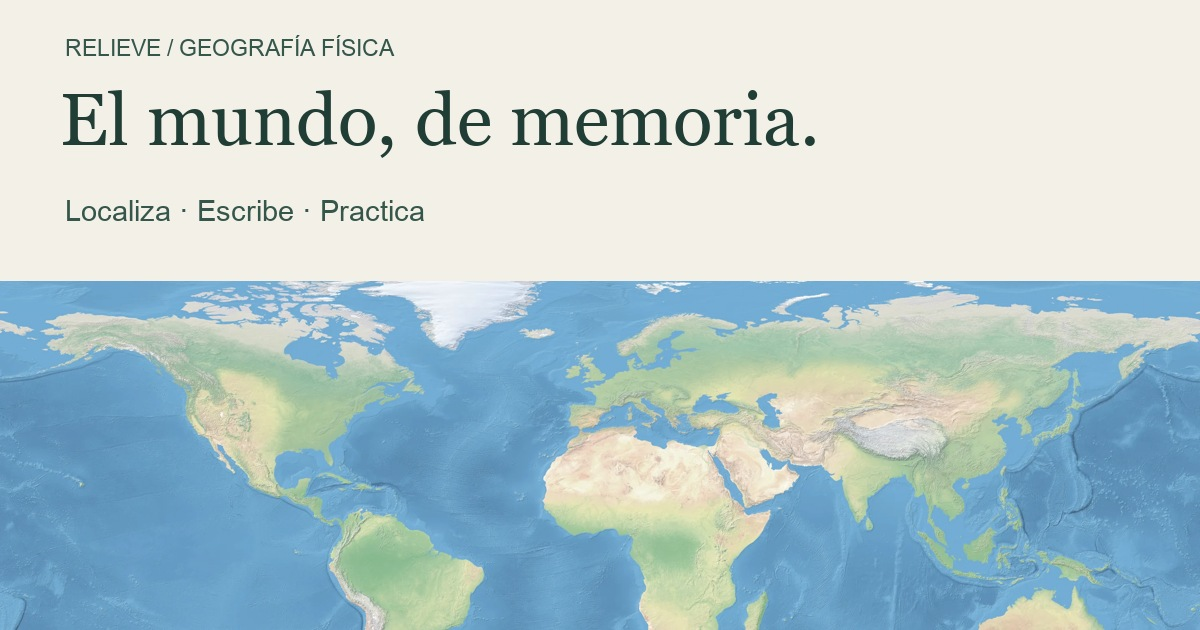
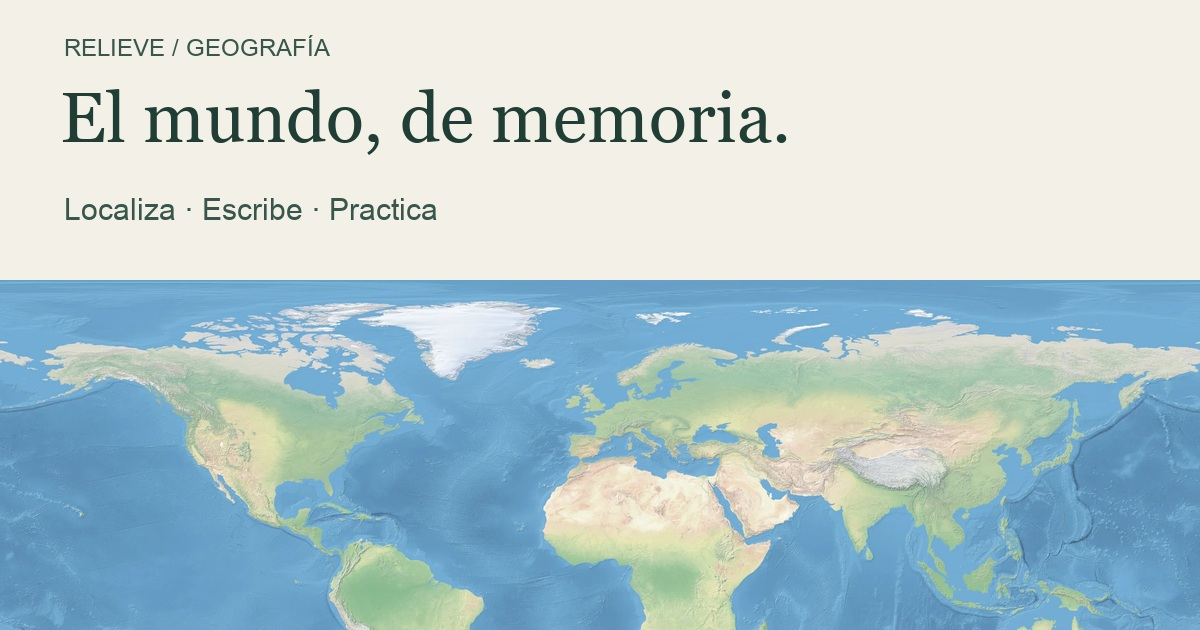
Audit interface copy, instructions, metadata and social card

diff --git a/app.js b/app.js
@@ -4,7 +4,7 @@ const $=s=>document.querySelector(s), $$=s=>[...document.querySelectorAll(s)];
 const esc=s=>String(s).replace(/[&<>"']/g,c=>({'&':'&amp;','<':'&lt;','>':'&gt;','"':'&quot;',"'":'&#39;'}[c]));
 let saved={};try{saved=JSON.parse(localStorage.getItem('relieve-progress-v1')||'{}');if(!saved||typeof saved!=='object'||Array.isArray(saved))saved={};}catch{}
 let scope='world',mode='write',base='natural',session=null,selected=null,view=[0,0,1200,500],dims=[1200,500],cursor=null,draggingPan=null,anchors=[];
-const descriptions={write:['¿Cuántos recuerdas?','Identifica el punto señalado. Tú escribes el nombre; nosotros ponemos el mapa.'],point:['Encuentra su lugar.','Lee el nombre y señala su ubicación. Amplía el mapa cuando necesites precisión.'],drag:['Todo por colocar.','Cada ancla señala un lugar. Arrastra las etiquetas al ancla correspondiente, o selecciona una y haz clic.'],challenge:['Un reto para recordar.','Escribe el nombre de cada punto señalado. Verás la corrección al finalizar, sin pistas ni avisos intermedios.'],review:['Una segunda vuelta.','Practica escribiendo los lugares que fallaste. Desaparecerán de este repaso cuando los aciertes sin ayuda.'],study:['Mira con calma.','Selecciona un nombre para ver su punto de referencia. Explora el mapa sin tiempo ni puntuación.']};
+const descriptions={write:['¿Cuántos recuerdas?','Identifica el punto señalado. La pregunta indica qué tipo de relieve buscamos.'],point:['Encuentra su lugar.','Lee el nombre y señala su ubicación. Amplía el mapa cuando necesites precisión.'],drag:['Todo por colocar.','Cada ancla señala un lugar. Arrastra las etiquetas al ancla correspondiente, o selecciona una y haz clic.'],challenge:['Un reto para recordar.','Escribe el nombre de cada punto señalado. Verás la corrección al finalizar. Si una respuesta es genérica o ambigua, te pediremos precisarla.'],review:['Una segunda vuelta.','Practica escribiendo los lugares que fallaste. Desaparecerán de este repaso cuando los aciertes sin ayuda.'],study:['Mira con calma.','Selecciona un nombre para ver su punto de referencia. Explora el mapa sin tiempo ni puntuación.']};
 function pool(){return ITEMS.filter(i=>i.scope===scope);}
 function filtered(){return pool().filter(i=>($('#group').value==='all'||i.group===$('#group').value)&&($('#category').value==='all'||i.category===$('#category').value)&&(mode!=='review'||saved[i.id]?.last===false));}
 function updateStats(){const n=ITEMS.filter(i=>saved[i.id]?.last===true).length;$('#mastered').innerHTML=`${n} <small>/ 74</small>`;$('#overall-bar').style.width=`${n/74*100}%`;}
@@ -13,7 +13,7 @@ function updateFilters(){
  $('#group').innerHTML=scope==='world'?'<option value="all">Todo el mundo</option>'+['Asia','América','África','Europa','Oceanía'].map(v=>`<option>${v}</option>`).join(''):'<option value="all">Toda la Península</option>';
  $('#category').innerHTML='<option value="all">Todos los tipos</option>'+[...new Set(pool().map(i=>i.category))].map(v=>`<option>${v}</option>`).join('');
 }
-function updateSetup(){const n=filtered().length;$('#available').textContent=`${n} ${n===1?'lugar disponible':'lugares disponibles'}${mode==='review'&&n===0?' · Todavía no tienes fallos en esta selección.':''}`;$('#start').disabled=n===0;$('#count').disabled=['drag','study'].includes(mode);$('#session-title').textContent=descriptions[mode][0];$('#mode-description').textContent=descriptions[mode][1];$('#start').innerHTML=(mode==='study'?'Explorar mapa':'Empezar práctica')+' <span>↗</span>';$('#setup-note').textContent=mode==='drag'?'Se incluyen todos los lugares de la selección. Las anclas aparecen sin nombres.':mode==='challenge'?'Cada respuesta se guarda al avanzar. El tiempo es informativo.':mode==='study'?'Consulta los puntos de referencia y aprende antes de practicar.':'Sin prisas. Las tildes y las pequeñas erratas no te frenan.';}
+function updateSetup(){const n=filtered().length;$('#available').textContent=`${n} ${n===1?'lugar disponible':'lugares disponibles'}${mode==='review'&&n===0?' · No tienes lugares pendientes de repaso en esta selección.':''}`;$('#start').disabled=n===0;$('#count').disabled=['drag','study'].includes(mode);$('#session-title').textContent=descriptions[mode][0];$('#mode-description').textContent=descriptions[mode][1];$('#start').innerHTML=(mode==='study'?'Explorar mapa':'Empezar práctica')+' <span>↗</span>';$('#setup-note').textContent=mode==='drag'?'Se incluyen todos los lugares de la selección. Pasa por un ancla para ver su tipo de relieve.':mode==='challenge'?'Cada respuesta se guarda al avanzar. El tiempo es informativo.':mode==='study'?'Consulta los puntos de referencia y aprende antes de practicar.':'Sin prisas. Las tildes y las pequeñas erratas no te frenan.';}
 function setMap(){dims=scope==='world'?(base==='original'?[1200,855]:[1200,500]):(base==='original'?[1000,712.4]:[1000,885]);$('#map-image').setAttribute('href',`assets/${base==='original'?'original':'natural'}-${scope}.webp`);$('#map-image').setAttribute('width',dims[0]);$('#map-image').setAttribute('height',dims[1]);$('#map-title').textContent=scope==='world'?'Relieve mundial':'Península Ibérica';$('#map-kicker').textContent=scope==='world'?'PLANISFERIO FÍSICO':'RELIEVE PENINSULAR';$('#map-tag').textContent=base==='original'?'MAPA ORIGINAL':'NATURAL EARTH';$('#map-credit').textContent=base==='original'?'Mapa original de la ficha':'Natural Earth · dominio público';$('#map').setAttribute('aria-label',`Mapa físico ${scope==='world'?'del mundo':'de la Península Ibérica'}. ${descriptions[mode][1]}`);resetView();renderMarks();}
 function applyView(){ $('#map').setAttribute('viewBox',view.join(' ')); renderMarks(); }
 function resetView(){view=[0,0,...dims];applyView();}
@@ -50,7 +50,7 @@ function renderGame(){if(!session)return;const oldScroll=$('.chips')?.scrollTop|
  if(['drag','study'].includes(mode)){
  html+=`<h2>${mode==='drag'?'Cada nombre, en su lugar.':'Conoce el terreno.'}</h2><p class="muted">${mode==='drag'?'Arrastra cada etiqueta a un ancla numerada. También puedes seleccionar la etiqueta y hacer clic en el ancla.':'Elige un lugar para mostrar un punto de referencia.'}</p><div class="chips">${session.items.map((i,n)=>`<button class="chip ${selected?.id===i.id?'selected':''} ${session.placed.has(i.id)?'solved':''}" data-item="${i.id}" draggable="${mode==='drag'&&!session.placed.has(i.id)}" ${session.placed.has(i.id)?'disabled':''}>${session.placed.has(i.id)?'✓ '+(session.anchorItems.findIndex(a=>a.id===i.id)+1)+' · ':''}${esc(i.name)}</button>`).join('')}</div><div id="feedback" role="status" aria-live="polite"></div>`;
  if(mode==='study')html+=`<div class="study-detail">${esc(selected?.name||'')}<br><small>${esc(selected?.group||'')} · ${esc(selected?.category||'')}</small></div><button class="secondary" id="focus-place">Acercar al lugar</button>`;
- else html+='<button class="secondary" id="reveal">Mostrar etiqueta seleccionada</button>';
+ else html+='<button class="secondary" id="reveal">Ver ancla de la etiqueta</button>';
  html+='<button class="text-button" id="finish">Terminar sesión</button>';
  }else{const i=current();html+=`<p class="question-context">${esc(i.group)} · ${esc(i.category)}</p><h2 class="question-title">${mode==='point'?esc(i.name):`¿Qué ${featureType(i)} es?`}</h2><p class="muted">${mode==='point'?'Haz clic en su ubicación. Puedes ampliar el mapa.':'Identifica el punto marcado en naranja.'}</p>`;
  if(mode!=='point')html+='<form id="answer-form"><label for="answer">Tu respuesta</label><input id="answer" autocomplete="off" autocapitalize="off" spellcheck="false" placeholder="Escribe el nombre…" required maxlength="120"><button class="primary" type="submit">'+(mode==='challenge'?'Guardar y continuar':'Comprobar')+' <span>↵</span></button></form>';
@@ -111,7 +111,7 @@ function focusPlace(){const i=mode==='study'?selected:current();if(!i)return;con
 function feedback(html,type=''){const el=$('#feedback');if(el){el.className='feedback '+type;el.innerHTML=html;}}
 function submitText(){if(!session||session.answered)return;const value=$('#answer').value.trim();if(!value)return;const result=checkAnswer(value,current(),pool());if(['generic','ambiguous'].includes(result.kind)){feedback(result.kind==='generic'?'Eso indica el tipo de relieve. Añade el nombre que identifica el lugar.':'Ese nombre es ambiguo. Añade una palabra más para identificar el lugar.','warning');return;}answer(result,value);}
 function answer(result,value){if(!session||session.answered)return;const item=current();session.answers.push({id:item.id,name:item.name,...result,value});session.answered=true;persist(item,result.ok);if(mode==='challenge'){next();return;}
- let message=result.ok?(['exact','location'].includes(result.kind)?'Bien situado en tu memoria.':result.kind==='typo'?'Correcto, con una pequeña errata.':'Correcto. Has usado un nombre abreviado o alternativo.'):(result.kind==='ambiguous'?'Ese nombre puede referirse a más de un lugar.':result.kind==='skip'?'Lo dejamos para repasar.':result.kind==='reveal'?'Solución consultada. Se guardará para repasar.':'Esta vez no. Lo guardamos para repasar.');
+ let message=result.ok?(['exact','location'].includes(result.kind)?'Correcto.':result.kind==='typo'?'Correcto, con una pequeña errata.':'Correcto. Has usado un nombre abreviado o alternativo.'):(result.kind==='ambiguous'?'Ese nombre puede referirse a más de un lugar.':result.kind==='skip'?'Lo dejamos para repasar.':result.kind==='reveal'?'Solución consultada. Se guardará para repasar.':'Esta vez no. Lo guardamos para repasar.');
  feedback(`${message}<br><strong>${esc(item.name)}</strong>`,result.ok?(['exact','location'].includes(result.kind)?'':'warning'):'error');
  $('#answer-form')?.querySelectorAll('input,button').forEach(e=>e.disabled=true);$('#reveal')?.setAttribute('disabled','');$('#skip')?.setAttribute('disabled','');$('#next').hidden=false;$('#next').textContent=session.index===session.items.length-1?'Ver resultados →':'Siguiente lugar →';renderMarks();$('#next').focus({preventScroll:true});}
 function reveal(){if(mode==='drag'){if(!selected){feedback('Selecciona primero una etiqueta.','warning');return;}session.failed.add(selected.id);session.revealed=true;feedback(`El ancla resaltada corresponde a <strong>${esc(selected.name)}</strong>. Colócala para continuar; quedará en tu repaso.`,'warning');renderMarks();}else answer({ok:false,kind:'reveal'},'Solución consultada');}
@@ -128,13 +128,13 @@ function place(p,confirmedId=null){if(!session||mode==='study')return;
  }
  $('#anchor-choice')?.remove();
  const anchor=confirmedId?anchors.find(a=>a.item.id===confirmedId&&!session.placed.has(a.item.id)):nearestAnchor(p);if(anchor?.item.id===selected.id){const ok=!session.failed.has(selected.id);session.placed.add(selected.id);session.answers.push({id:selected.id,name:selected.name,ok,kind:'location',value:ok?'Ubicación correcta':'Colocado tras un error o una pista'});persist(selected,ok);selected=null;session.revealed=false;renderGame();renderMarks();feedback(ok?'Bien colocado. Continúa con otra etiqueta.':'Colocado. Lo volveremos a practicar.');if(session.placed.size===session.items.length)finish();}
- else{if(anchor)session.failed.add(selected.id);feedback(`${anchor?'Esa ancla no corresponde.':'Suelta la etiqueta sobre un ancla.'} Busca <strong>${esc(selected.name)}</strong>.`,'error');}
+ else{if(anchor)session.failed.add(selected.id);feedback(`${anchor?'Esa ancla no corresponde.':'Elige un ancla del mapa.'} Busca <strong>${esc(selected.name)}</strong>.`,'error');}
 }
 function finish(){if(!session)return;if(mode==='study'){back();return;}
  // Preserve mistakes from unfinished drag attempts, without counting untouched labels.
  if(mode==='drag')for(const id of session.failed)if(!session.placed.has(id)){const i=session.items.find(x=>x.id===id);session.answers.push({id,name:i.name,ok:false,kind:'location',value:'Sin completar tras un error o una pista'});persist(i,false);}
  const answers=session.answers;const n=answers.filter(a=>a.ok).length;const secs=Math.round((Date.now()-session.started)/1000);$('#game').hidden=true;$('#results').hidden=false;
- $('#results').innerHTML=`<p class="eyebrow">SESIÓN TERMINADA</p><h2>${n===answers.length&&n>0?'Bien aprendido.':'Cada vuelta cuenta.'}</h2><div class="result-score">${n}<small> / ${answers.length}</small></div><p class="muted">Aciertos sin ayuda · ${Math.floor(secs/60)} min ${secs%60} s<br>${session.items.length-answers.length?`${session.items.length-answers.length} lugares sin intentar.`:'Has completado toda la sesión.'}</p><ul class="result-list">${answers.map(a=>`<li class="${a.ok?'':'wrong'}">${a.ok?'✓':'↺'} ${esc(a.name)}<small>${esc(a.value)}${a.ok&&['short','typo'].includes(a.kind)?' · Válida con aviso':''}</small></li>`).join('')}</ul><button class="primary" id="again">Otra ronda <span>↗</span></button><button class="secondary" id="review-now">Repasar mis fallos</button><button class="text-button" id="configure">Cambiar configuración</button>`;
+ $('#results').innerHTML=`<p class="eyebrow">SESIÓN TERMINADA</p><h2>${n===answers.length&&n>0?'Bien aprendido.':'Cada vuelta cuenta.'}</h2><div class="result-score">${n}<small> / ${answers.length}</small></div><p class="muted">Aciertos · ${Math.floor(secs/60)} min ${secs%60} s<br>${session.items.length-answers.length?`${session.items.length-answers.length} lugares sin intentar.`:'Has completado toda la sesión.'}</p><ul class="result-list">${answers.map(a=>`<li class="${a.ok?'':'wrong'}">${a.ok?'✓':'↺'} ${esc(a.name)}<small>${esc(a.value)}${a.ok&&['short','typo'].includes(a.kind)?(a.kind==='short'?' · Nombre abreviado o alternativo':' · Pequeña errata aceptada'):''}</small></li>`).join('')}</ul><button class="primary" id="again">Otra ronda <span>↗</span></button><button class="secondary" id="review-now">Repasar mis fallos</button><button class="text-button" id="configure">Cambiar configuración</button>`;
  $('#again').onclick=()=>{back();start();};$('#configure').onclick=back;$('#review-now').onclick=()=>{back();setMode('review');};lock(false);session=null;selected=null;$('#marks').innerHTML='';$('#cursor').innerHTML='';resetView();}
 function back(){session=null;selected=null;$('#setup').hidden=false;$('#game').hidden=true;$('#results').hidden=true;lock(false);updateSetup();renderMarks();$('#cursor').innerHTML='';resetView();}
 function setMode(m){mode=m;$$('[data-mode]').forEach(b=>{b.classList.toggle('active',b.dataset.mode===m);b.setAttribute('aria-pressed',b.dataset.mode===m);});back();setMap();}

diff --git a/index.html b/index.html
@@ -1,5 +1,5 @@
 <!doctype html>
-<html lang="es"><head><meta charset="utf-8"><meta name="viewport" content="width=device-width,initial-scale=1"><title>Relieve · Practica geografía física</title><meta name="description" content="Aprende a localizar 74 formas del relieve mundial y de la Península Ibérica. Mapas mudos, escritura, arrastrar etiquetas y retos de práctica."><meta name="theme-color" content="#254d40"><link rel="canonical" href="https://jgleal.github.io/relieve/"><meta property="og:type" content="website"><meta property="og:locale" content="es_ES"><meta property="og:title" content="Relieve · El mundo, de memoria."><meta property="og:description" content="74 lugares. Dos mapas. Una nueva forma de practicar geografía física."><meta property="og:url" content="https://jgleal.github.io/relieve/"><meta property="og:image" content="https://jgleal.github.io/relieve/assets/social.jpg"><meta property="og:image:width" content="1200"><meta property="og:image:height" content="630"><meta name="twitter:card" content="summary_large_image"><meta name="twitter:title" content="Relieve · Practica geografía física"><meta name="twitter:description" content="Mapas mudos, retos de escritura y retos de práctica."><meta name="twitter:image" content="https://jgleal.github.io/relieve/assets/social.jpg"><link rel="icon" href="assets/favicon.svg" type="image/svg+xml"><link rel="stylesheet" href="style.css"><script type="module" src="app.js"></script></head>
+<html lang="es"><head><meta charset="utf-8"><meta name="viewport" content="width=device-width,initial-scale=1"><title>Relieve · Practica geografía</title><meta name="description" content="Aprende a localizar 74 formas del relieve mundial y de la Península Ibérica. Mapas mudos, escritura, arrastrar etiquetas y retos de práctica."><meta name="theme-color" content="#254d40"><link rel="canonical" href="https://jgleal.github.io/relieve/"><meta property="og:type" content="website"><meta property="og:locale" content="es_ES"><meta property="og:title" content="Relieve · El mundo, de memoria."><meta property="og:description" content="74 lugares del mundo y de la Península Ibérica. Escribe sus nombres y sitúalos en el mapa."><meta property="og:url" content="https://jgleal.github.io/relieve/"><meta property="og:image" content="https://jgleal.github.io/relieve/assets/social.jpg"><meta property="og:image:width" content="1200"><meta property="og:image:height" content="630"><meta name="twitter:card" content="summary_large_image"><meta name="twitter:title" content="Relieve · Practica geografía"><meta name="twitter:description" content="Escribe nombres, coloca etiquetas y practica con mapas originales o en color."><meta name="twitter:image" content="https://jgleal.github.io/relieve/assets/social.jpg"><link rel="icon" href="assets/favicon.svg" type="image/svg+xml"><link rel="stylesheet" href="style.css"><script type="module" src="app.js"></script></head>
 <body><header class="topbar"><a class="brand" href="./" aria-label="Relieve, inicio"><svg viewBox="0 0 40 36" aria-hidden="true"><path d="M2 29 14 7l8 13 5-8 11 17M8 29l8-14 9 14M15 29l5-8"/></svg>Relieve<span>GEOGRAFÍA</span></a><div class="header-right"><span class="local-badge"><i></i> Tu progreso se guarda aquí</span><button class="text-button" id="sources">Sobre el proyecto ↗</button></div></header>
 <main><section class="intro"><div><p class="eyebrow">OBSERVA. RECUERDA. SITÚA.</p><h1>El mundo, <em>de memoria.</em></h1><p class="subtitle">De los Andes a la sierra de Gredos. Practica el relieve a tu manera.</p></div><div class="overview"><strong id="mastered">0 <small>/ 74</small></strong><span>lugares acertados</span><div class="progress-track"><div id="overall-bar"></div></div></div></section>
 <section aria-label="Configurar práctica" id="configuration"><div class="scope-row"><div class="segmented" role="group" aria-label="Ámbito geográfico"><button data-scope="world" class="active">01 <span>Relieve mundial</span><small>52 lugares</small></button><button data-scope="iberia">02 <span>Península Ibérica</span><small>22 lugares</small></button></div><div class="map-selector"><label for="base">BASE CARTOGRÁFICA</label><select id="base"><option value="natural">Relieve en color</option><option value="original">Mapa original</option></select></div></div>
@@ -11,7 +11,7 @@
 <button data-mode="review" class="mode"><span class="mode-icon" aria-hidden="true"><svg viewBox="0 0 24 24"><path d="M4 9a8 8 0 1 1 0 7M4 3v6h6"/><path d="m9 12 3 3 4-5"/></svg></span><strong>Repasa fallos</strong><small>Refuerza lo que cuesta</small></button>
 <button data-mode="study" class="mode"><span class="mode-icon" aria-hidden="true"><svg viewBox="0 0 24 24"><path d="m3 5 6-2 6 2 6-2v16l-6 2-6-2-6 2Zm6-2v16m6-14v16"/></svg></span><strong>Explora</strong><small>Aprende sin puntuación</small></button></div></section>
 <section class="workspace" aria-label="Mapa y práctica"><div class="map-panel"><div class="map-heading"><div><span class="eyebrow" id="map-kicker">PLANISFERIO FÍSICO</span><h2 id="map-title">Relieve mundial</h2></div><span class="map-tag" id="map-tag">NATURAL EARTH</span></div><div class="map-stage" id="map-stage"><svg id="map" xmlns="http://www.w3.org/2000/svg" viewBox="0 0 1200 500" tabindex="0" role="img" aria-label="Mapa físico para practicar"><image id="map-image" href="assets/natural-world.webp" width="1200" height="500"/><g id="marks"></g><g id="cursor"></g></svg><div class="zoom"><button id="zoom-in" aria-label="Ampliar mapa">+</button><button id="zoom-out" aria-label="Reducir mapa">−</button><button id="zoom-reset" aria-label="Restablecer vista">⤢</button></div><span class="north">N ↑</span></div><div class="map-footer"><span id="map-help">Amplía con la rueda · Mayús + arrastrar para desplazar</span><span id="map-credit">Natural Earth · dominio público</span></div></div>
-<aside class="practice-panel"><div id="setup"><p class="eyebrow">TU SESIÓN</p><h2 id="session-title">¿Cuántos recuerdas?</h2><p class="muted" id="mode-description">Identifica el punto señalado. Tú escribes el nombre; nosotros ponemos el mapa.</p><label for="group">Zona</label><select id="group"><option value="all">Todo el mundo</option><option>Asia</option><option>América</option><option>África</option><option>Europa</option><option>Oceanía</option></select><label for="category">Tipo de relieve</label><select id="category"><option value="all">Todos los tipos</option></select><label for="count">Lugares por sesión</label><select id="count"><option value="5">5 · Un repaso rápido</option><option value="10" selected>10 · Una buena ronda</option><option value="20">20 · A fondo</option><option value="all">Todos los disponibles</option></select><p class="available" id="available"></p><button class="primary" id="start">Empezar práctica <span>↗</span></button><p class="setup-note" id="setup-note">Sin prisas. Las tildes y las pequeñas erratas no te frenan.</p></div><div id="game" hidden></div><div id="results" hidden></div></aside></section>
+<aside class="practice-panel"><div id="setup"><p class="eyebrow">TU SESIÓN</p><h2 id="session-title">¿Cuántos recuerdas?</h2><p class="muted" id="mode-description">Identifica el punto señalado. La pregunta indica qué tipo de relieve buscamos.</p><label for="group">Zona</label><select id="group"><option value="all">Todo el mundo</option><option>Asia</option><option>América</option><option>África</option><option>Europa</option><option>Oceanía</option></select><label for="category">Tipo de relieve</label><select id="category"><option value="all">Todos los tipos</option></select><label for="count">Lugares por sesión</label><select id="count"><option value="5">5 · Un repaso rápido</option><option value="10" selected>10 · Una buena ronda</option><option value="20">20 · A fondo</option><option value="all">Todos los disponibles</option></select><p class="available" id="available"></p><button class="primary" id="start">Empezar práctica <span>↗</span></button><p class="setup-note" id="setup-note">Sin prisas. Las tildes y las pequeñas erratas no te frenan.</p></div><div id="game" hidden></div><div id="results" hidden></div></aside></section>
 <footer><span>Relieve <span class="footer-dot">·</span> Aprender a mirar el mapa.</span><button class="text-button" id="reset-progress">Borrar mi progreso</button></footer></main>
-<dialog id="about"><button class="close" aria-label="Cerrar">×</button><p class="eyebrow">SOBRE RELIEVE</p><h2>Geografía, con práctica.</h2><p>52 elementos del relieve mundial y 22 de la Península Ibérica, basados en la ficha original.</p><h3>Cómo se corrige</h3><p>Se admiten nombres abreviados inequívocos, tildes omitidas y pequeñas erratas. Un aviso muestra siempre el nombre completo. Los puntos son referencias para localizar cada elemento; no representan toda su extensión. En Localiza se admite un margen geográfico y en Mapa mudo se coloca cada etiqueta sobre su ancla. Usa el zoom para los accidentes cercanos. Para el margen de acierto de la Meseta Central se utiliza la geometría de «La Meseta» del Atlas Didáctico del IGN, simplificada y adaptada al mapa original (CC BY 4.0).</p><h3>Cartografía y fuentes</h3><p>Mapas en color: <a href="https://www.naturalearthdata.com/downloads/10m-raster-data/10m-natural-earth-2/" target="_blank" rel="noopener">Natural Earth II</a>, dominio público. Mapas originales: recortes de la ficha facilitada para este ejercicio; sus derechos corresponden a sus autores. Contorno de la Meseta y referencia didáctica: <a href="https://educativo.ign.es/atlas-didactico/relieve-bach/las_grandes_unidades_del_relieve_peninsular.html" target="_blank" rel="noopener">Atlas didáctico del IGN</a>.</p><p>«Cabo Verde» se refiere al cabo de la costa de Senegal, no al archipiélago. Los Alpes del Sur están en Nueva Zelanda. Conservamos los nombres de la ficha.</p><h3>Tu progreso</h3><p>Se guarda únicamente en este navegador. No hay cuentas, analítica ni envío de respuestas a un servidor. Al borrar los datos del navegador se pierde el historial.</p><a href="https://github.com/jgleal/relieve" target="_blank" rel="noopener">Código y documentación ↗</a></dialog>
+<dialog id="about"><button class="close" aria-label="Cerrar">×</button><p class="eyebrow">SOBRE RELIEVE</p><h2>Geografía, con práctica.</h2><p>52 elementos del relieve mundial y 22 de la Península Ibérica, basados en la ficha original.</p><h3>Cómo se practica</h3><p>Las preguntas indican el tipo de relieve: pico, cordillera, sierra… Los puntos señalan lugares de referencia, no toda la extensión de cada accidente.</p><p>En Localiza, señala la ubicación: se admite un margen de acierto. En Mapa mudo, arrastra una etiqueta o selecciónala y pulsa su ancla. Pasa el cursor por un ancla para ver el tipo de relieve. Si hay varias muy próximas, puedes precisar por número o ampliar la zona antes de que se evalúe tu elección.</p><h3>Cómo se corrige</h3><p>Se aceptan abreviaciones que identifican el lugar, tildes omitidas y pequeñas erratas. «Bética» puede valer; «cordillera» no basta. Si una respuesta es genérica o ambigua, se pide completarla sin contar un intento.</p><p>En Reto, la corrección aparece al terminar. En los demás modos con puntuación, se muestra al responder. Los fallos, los lugares que saltas y las soluciones consultadas quedan para repasar; un acierto posterior sin ayuda los retira del repaso.</p><h3>Cartografía y fuentes</h3><p>Mapas en color: <a href="https://www.naturalearthdata.com/downloads/10m-raster-data/10m-natural-earth-2/" target="_blank" rel="noopener">Natural Earth II</a>, dominio público. Mapas originales: recortes de la ficha original; sus derechos corresponden a sus autores. Referencia cartográfica: <a href="https://educativo.ign.es/atlas-didactico/relieve-bach/las_grandes_unidades_del_relieve_peninsular.html" target="_blank" rel="noopener">Atlas Didáctico del IGN</a> (CC BY 4.0). Las fuentes y adaptaciones se detallan en la documentación del proyecto.</p><p>«Cabo Verde» se refiere al cabo de la costa de Senegal, no al archipiélago. Los Alpes del Sur están en Nueva Zelanda. Conservamos los nombres de la ficha.</p><h3>Tu progreso</h3><p>Se guarda en este navegador y refleja el último resultado de cada lugar. No hay cuentas, analítica ni envío de respuestas a un servidor. Al borrar los datos del navegador se pierde el historial.</p><a href="https://github.com/jgleal/relieve" target="_blank" rel="noopener">Código y documentación ↗</a></dialog>
 <noscript>Activa JavaScript para usar los modos de práctica. Relieve contiene 74 accidentes geográficos del mundo y de la Península Ibérica.</noscript></body></html>

diff --git a/scripts/social.py b/scripts/social.py
@@ -1,0 +1,14 @@
+"""Render the social card from typography and the public-domain map asset."""
+from pathlib import Path
+from PIL import Image, ImageDraw, ImageFont
+ROOT = Path(__file__).resolve().parents[1]
+FONT = Path('/System/Library/Fonts/Supplemental')
+card = Image.new('RGB', (1200, 630), '#f3f0e7')
+background = Image.open(ROOT / 'assets/natural-world.webp').convert('RGB')
+background = background.resize((1200, 500), Image.Resampling.LANCZOS)
+card.paste(background.crop((0, 0, 1200, 350)), (0, 280))
+draw = ImageDraw.Draw(card)
+draw.text((64, 34), 'RELIEVE / GEOGRAFÍA', fill='#38564b', font=ImageFont.truetype(str(FONT / 'Arial.ttf'), 24))
+draw.text((60, 77), 'El mundo, de memoria.', fill='#203e35', font=ImageFont.truetype(str(FONT / 'Georgia.ttf'), 70))
+draw.text((64, 192), 'Localiza · Escribe · Practica', fill='#38564b', font=ImageFont.truetype(str(FONT / 'Arial.ttf'), 30))
+card.save(ROOT / 'assets/social.jpg', quality=94, optimize=True)

diff --git a/README.md b/README.md
@@ -1,12 +1,12 @@
 # Relieve
 
-Práctica de geografía física para escritorio: **52 elementos del relieve mundial** y **22 de la Península Ibérica**, basados en la ficha original.
+Práctica de geografía para escritorio: **52 elementos del relieve mundial** y **22 de la Península Ibérica**, basados en la ficha original.
 
 **Web:** https://jgleal.github.io/relieve/
 
 ## Modos
 
-- **Escribe:** identifica el punto señalado; sesiones aleatorias de 5, 10, 20 o todos los lugares disponibles.
+- **Escribe:** identifica el punto señalado con una pregunta que indica el tipo de relieve; sesiones aleatorias de 5, 10, 20 o todos los lugares disponibles.
 - **Localiza:** lee un nombre y señala su ubicación.
 - **Mapa mudo:** arrastra etiquetas a anclas mudas numeradas, o selecciona una y haz clic en el ancla. Usa todos los elementos del filtro elegido.
 - **Reto:** escribe los nombres y consulta la corrección al finalizar.
@@ -17,13 +17,17 @@ Filtra por continente y tipo de relieve; cambia entre cartografía en color y el
 
 ## Corrección
 
-Se ignoran mayúsculas, tildes, puntuación y espacios repetidos. Se aceptan alias explícitos y pequeños errores de escritura (una edición a partir de 5 caracteres, dos a partir de 11, solo si el resultado no es ambiguo). Las abreviaciones y erratas aceptadas muestran un aviso y el nombre completo.
+Se ignoran mayúsculas, tildes, puntuación y espacios repetidos. Se aceptan alias explícitos y pequeños errores de escritura (una edición a partir de 5 caracteres, dos a partir de 11, solo si el resultado no es ambiguo). Las abreviaciones y erratas aceptadas muestran el nombre completo y un aviso: al responder en Escribe y Repasa fallos, o en los resultados de Reto.
 
-Los términos genéricos como **meseta**, **sierra**, **cordillera** o **cabo** nunca bastan para identificar un lugar. **Bética** sí es una abreviación identificativa. **Central** es ambiguo entre Meseta Central y Sistema Central: se pide completar. **Siberia** no distingue las dos unidades. Las respuestas incompletas o ambiguas permiten precisar sin contarse como acierto. En Reto también se pide precisión, sin revelar la solución.
+Los términos genéricos como **meseta**, **sierra**, **cordillera** o **cabo** nunca bastan para identificar un lugar. **Bética** sí es una abreviación identificativa. **Central** es ambiguo entre Meseta Central y Sistema Central: se pide completar. **Siberia** no distingue las dos unidades. Las respuestas incompletas o ambiguas permiten precisar sin registrar un intento. En Reto también se pide precisión, sin revelar la solución.
 
-Se muestran únicamente puntos de referencia, sin superficies coloreadas. En **Localiza**, la tolerancia interna usa polígonos para grandes superficies, corredores para cordilleras y radios para picos y cabos. En **Mapa mudo**, el destino es el ancla numerada del elemento: cada ancla mide 22 píxeles, tiene una tolerancia de 17 píxeles y se separa de sus vecinas para evitar solapamientos. Si se desplaza visualmente, una línea la une al punto geográfico real. La numeración y la lista de etiquetas se mezclan de forma independiente para no revelar las soluciones por orden. Soltar fuera de cualquier ancla no penaliza; escoger una ancla incorrecta sí. Son **zonas didácticas aproximadas dibujadas a mano**, no delimitaciones oficiales. Los contornos se pueden revisar en `data.js` y las transformaciones en `core.js`. La Meseta Central es la excepción: utiliza la geometría de «La Meseta» de la capa oficial del Atlas Didáctico del IGN, con sus anillos interiores. La geometría se simplifica a 0,02 grados mediante el servicio de origen; la adaptación al mapa original es una transformación de segundo orden a partir de 12 puntos costeros identificados manualmente (registro aproximado, no georreferenciación oficial). Los datos y puntos de control están en `sources/`; los anillos generados, en `meseta.js`. El planisferio original se registra mediante su retícula de meridianos y paralelos.
+Se muestran únicamente puntos de referencia, sin superficies coloreadas. En **Localiza** se admite un margen geográfico. Las tolerancias son aproximaciones didácticas; los detalles y fuentes cartográficas están en [sources/README.md](sources/README.md).
 
-Un error previo o consultar una solución deja el lugar pendiente de repaso aunque después se coloque bien. Los lugares no intentados no se cuentan como fallos. Las sesiones sin respuestas muestran cero intentos; no se presenta una nota ficticia. El panel de avisos y el botón de continuar reservan espacio, y la altura del mapa permanece fija durante la ronda para evitar que los destinos se muevan al corregir.
+En **Mapa mudo**, el destino es el ancla numerada del elemento. La ficha compacta sigue al puntero durante el arrastre; también se puede seleccionar una etiqueta y hacer clic en un ancla. Al pasar por un ancla se muestra el tipo de relieve, sin revelar su nombre. Las anclas miden 22 píxeles, se separan para evitar solapamientos y admiten un radio de selección de 17 píxeles. Si una se desplaza, una línea la conecta con su posición geográfica. La numeración y la lista de etiquetas se mezclan de forma independiente.
+
+Si el ancla elegida tiene otras pendientes a 32 píxeles o menos, se solicita precisar por número y tipo, ampliar la zona o cancelar. No se registra un intento hasta elegir un ancla concreta. Soltar fuera de las anclas no penaliza; confirmar una ancla incorrecta sí.
+
+En Mapa mudo, un error previo o consultar la solución deja el lugar pendiente de repaso aunque después se coloque bien en esa misma ronda. En las sesiones de escritura y Localiza, fallar, saltar o consultar la solución deja el lugar para repasar. Un acierto posterior sin ayuda lo retira. Los lugares no intentados no se cuentan como fallos. Las sesiones sin respuestas muestran cero intentos; no se presenta una nota ficticia. El panel de avisos y el botón de continuar reservan espacio, y la altura del mapa permanece fija durante la ronda para evitar que los destinos se muevan al corregir.
 
 ## Uso
 
@@ -44,7 +48,7 @@ npm start
 npm test
 ```
 
-Requisitos de desarrollo: Node.js 18+ para las pruebas y Python 3 para el servidor local. El navegador solo necesita soporte de módulos ES, SVG y HTML Drag and Drop.
+Requisitos de desarrollo: Node.js 18+ para las pruebas y Python 3 para el servidor local. El navegador solo necesita soporte de módulos ES, SVG, Canvas 2D y Pointer Events.
 
 GitHub Pages publica la raíz de la rama `main`, con `.nojekyll`. Cada push actualiza la web. No requiere secretos ni un backend. Para trasladarla a otra URL, actualiza canonical, Open Graph, Twitter, `robots.txt` y `sitemap.xml`.
 
@@ -56,10 +60,9 @@ Incluye favicon SVG, imagen social JPEG de 1200 × 630, metadatos en español y 
 - **Natural Earth II with Shaded Relief and Water**, 1:10m, versión 3.2.0: https://www.naturalearthdata.com/downloads/10m-raster-data/10m-natural-earth-2/ — datos de dominio público. Descarga original: https://naturalearth.s3.amazonaws.com/10m_raster/NE2_LR_LC_SR_W.zip . Se generaron recortes equirectangulares en WebP; el mundo abarca −180°/180°, −60°/90° y la Península −11°/4,5°, 35°/45,5°.
 - **IGN, Atlas Didáctico**, referencia para las unidades peninsulares: https://educativo.ign.es/atlas-didactico/relieve-bach/caractersticas_del_relieve_espaol.html y https://educativo.ign.es/atlas-didactico/relieve-bach/los_rebordes_montaosos_perifricos.html . Salvo la Meseta, los polígonos son aproximaciones propias. **Meseta Central:** geometría de «La Meseta», capa `1114`, objeto `5` del servicio https://mapas-tematicos.ign.es/servicios/rest/services/tematicos/Medio_natural/MapServer/1114 . Crédito: © IGN, Atlas Didáctico; licencia CC BY 4.0 (https://creativecommons.org/licenses/by/4.0/). Modificaciones: simplificación a 0,02 grados y registro sobre la ficha original. La clasificación cartográfica de esta capa separa las superficies meseteñas de las unidades montañosas; no se debe interpretar como un límite geológico universal.
 
-Los derechos de los mapas originales de la ficha corresponden a sus respectivos autores. La condición de dominio público de Natural Earth no se extiende a esos recortes. La imagen social se ha compuesto con cartografía de Natural Earth y tipografía.
+Los derechos de los mapas originales de la ficha corresponden a sus respectivos autores. La condición de dominio público de Natural Earth no se extiende a esos recortes. La imagen social se compone con cartografía de Natural Earth y tipografía. `scripts/social.py` permite regenerarla con Python, Pillow y las fuentes Arial y Georgia de macOS; no interviene en el funcionamiento ni el despliegue de la web.
 
 ## Validación
 
-`npm test` verifica el inventario, nombres completos, alias, erratas, rechazo de genéricos y ambigüedades, centros de las 74 ubicaciones en ambas bases, corredores de cordilleras y puntos interiores/exteriores de la Meseta Central, además de la separación y detección de las anclas a diferentes escalas. La interfaz se comprueba además en navegador para escritura, arrastre, mapas originales y cambio de modos.
+`npm test` verifica el inventario, nombres completos, alias, erratas, rechazo de genéricos y ambigüedades, centros de las 74 ubicaciones en ambas bases, corredores de cordilleras y puntos interiores/exteriores de la Meseta Central, además de la separación y detección de las anclas a diferentes escalas. También verifica los tipos de relieve y la selección entre anclas cercanas a distintas escalas. La interfaz se comprueba además en navegador para escritura, arrastre, mapas originales y cambio de modos.
 
-Las preguntas indican el tipo concreto de accidente (pico, cordillera, sierra, sistema…). Las anclas muestran su tipo al pasar el cursor. Si hay varias anclas a menos de 32 píxeles, se solicita elegir por número y tipo o ampliar la zona, sin registrar un intento hasta confirmar.

diff --git a/sources/README.md b/sources/README.md
@@ -1,4 +1,10 @@
-# Geometría de la Meseta
+# Cartografía y tolerancias de localización
+
+La app muestra puntos, no áreas coloreadas. Solo **Localiza** usa geometrías internas para decidir si una ubicación es válida: polígonos para grandes superficies, corredores para cordilleras y radios para elementos puntuales. Son aproximaciones didácticas propias, salvo la Meseta descrita abajo. **Mapa mudo** comprueba el ancla elegida; no usa estas superficies.
+
+Las referencias están en `data.js` y las transformaciones en `core.js`. El planisferio original se registra mediante su retícula de meridianos y paralelos. Los anillos de la Meseta se generan en `meseta.js`.
+
+## Geometría de la Meseta
 
 Fuente: Instituto Geográfico Nacional, Atlas Didáctico, capa «Unidades del relieve», entidad «La Meseta».
 
